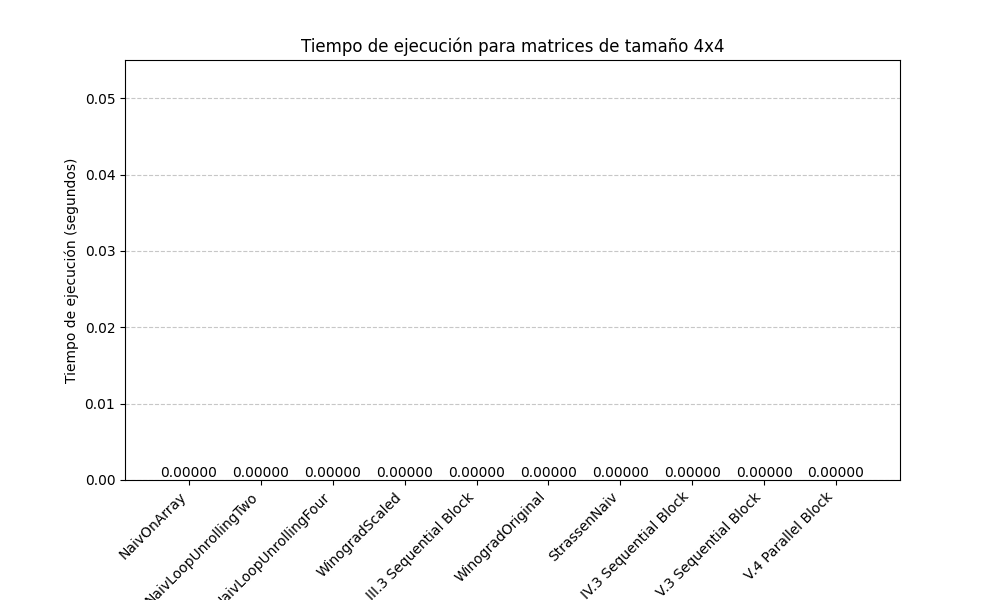
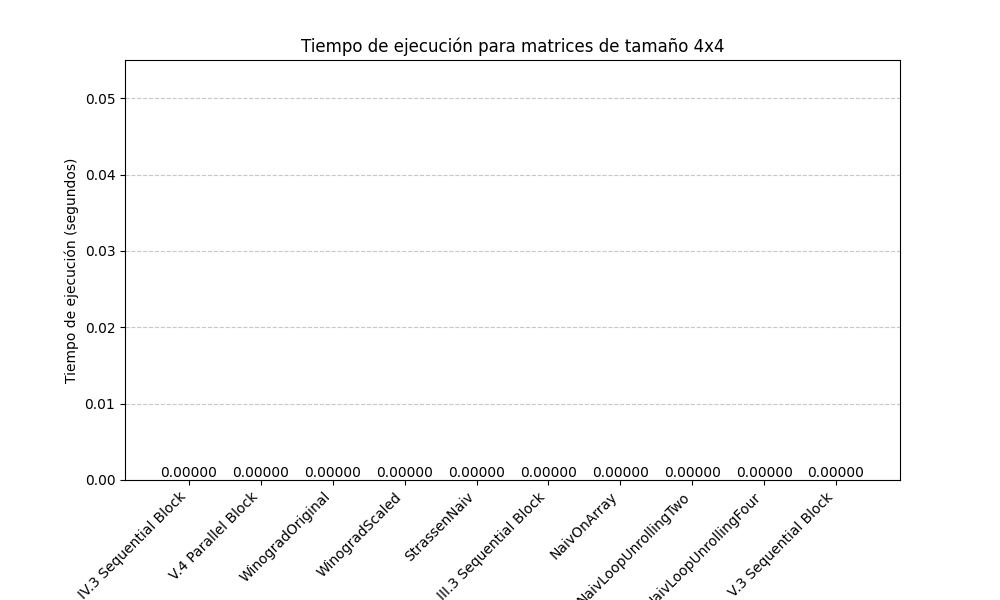
Cuarto commit - Modificaciones en las gráficas v3.0

diff --git a/ProyectoFinal/main.py b/ProyectoFinal/main.py
@@ -13,8 +13,37 @@ def leer_tiempos_csv(archivo_csv):
             tiempos[algoritmo] = tiempo  # Guardar el tiempo del algoritmo
     return tiempos
 
+# Función para crear y guardar gráficos de barras
+def crear_diagrama_barras(tiempos, archivo_salida, tamano_matriz):
+    plt.figure(figsize=(10, 6))
+    algoritmos = list(tiempos.keys())
+    tiempos_valores = list(tiempos.values())
+
+    # Generar el diagrama de barras
+    barras = plt.bar(algoritmos, tiempos_valores, color='darkorchid')
+
+    # Agregar etiquetas encima de las barras con 5 decimales
+    for barra, tiempo in zip(barras, tiempos_valores):
+        plt.text(barra.get_x() + barra.get_width() / 2,  # Posición en x
+                 barra.get_height() + (barra.get_height() * 0.01),  # Posición en y con un pequeño margen
+                 f'{tiempo:.5f}',  # Texto con 5 decimales
+                 ha='center', va='bottom', fontsize=10)
+
+    # Configuración de los ejes y la gráfica
+    plt.xticks(rotation=45, ha='right')  # Rotar etiquetas para mejor visibilidad
+    plt.xlabel('Algoritmos')
+    plt.ylabel('Tiempo de ejecución (segundos)')
+    plt.ylim(bottom=0)
+    plt.title(f'Tiempo de ejecución para matrices de tamaño {tamano_matriz}x{tamano_matriz}')
+
+    # Ajustar los márgenes para acomodar las etiquetas
+    plt.subplots_adjust(bottom=0.2, top=0.9)  # Espacio adicional inferior y superior
+    plt.grid(axis='y', linestyle='--', alpha=0.7)
+    plt.savefig(archivo_salida)
+    plt.close()
+
 # Función para crear y guardar gráficos lineales comparativos
-def crear_diagrama_lineal_comparativo(tiempos_python, tiempos_go, archivo_salida):
+def crear_diagrama_lineal_comparativo(tiempos_python, tiempos_go, tamano_matriz, archivo_salida):
     plt.figure(figsize=(10, 6))
 
     algoritmos = list(tiempos_python.keys())
@@ -28,8 +57,8 @@ def crear_diagrama_lineal_comparativo(tiempos_python, tiempos_go, archivo_salida
     # Configurar etiquetas
     plt.xticks(rotation=45, ha='right')  # Rotar etiquetas para mejor visibilidad
     plt.xlabel('Algoritmos')
-    plt.ylabel('Tiempo promedio de ejecución (segundos)')
-    plt.title('Comparación de tiempos promedio entre Python y Go')
+    plt.ylabel('Tiempo de ejecución (segundos)')
+    plt.title(f'Comparación de tiempos para matrices de tamaño {tamano_matriz}x{tamano_matriz}')
     plt.legend()
     plt.grid(axis='y', linestyle='--', alpha=0.7)
 
@@ -38,45 +67,57 @@ def crear_diagrama_lineal_comparativo(tiempos_python, tiempos_go, archivo_salida
     plt.savefig(archivo_salida)
     plt.close()
 
-# Función para crear y guardar el archivo CSV comparativo
-def crear_csv_comparativo_promedio(tiempos_python, tiempos_go, archivo_salida):
+# Función para crear y guardar los archivos CSV comparativos
+def crear_csv_comparativo(tiempos_python, tiempos_go, archivo_salida, tamano_matriz):
     with open(archivo_salida, mode='w', newline='') as file:
         writer = csv.writer(file)
         writer.writerow(["Algoritmo", "Python", "Go"])  # Cabecera
 
-        # Escribir los tiempos promedio para cada algoritmo
+        # Escribir los tiempos de ejecución para cada algoritmo
         for algoritmo in tiempos_python:
             python_tiempo = tiempos_python.get(algoritmo, 'N/A')
             go_tiempo = tiempos_go.get(algoritmo, 'N/A')
             writer.writerow([algoritmo, python_tiempo, go_tiempo])
 
 # Directorios de entrada y salida
-directorio_python = 'tiempos/tiempos_python'
-directorio_go = 'tiempos/tiempos_go'
-directorio_comparativos = 'tiempos/tiempos_comparativos'
-directorio_graficos_comparativos = 'graficos/graficos_comparativos'
+directorio_python = 'tiempos/tiempos_python'  # Ruta de los CSV generados por el proyecto Python
+directorio_go = 'tiempos/tiempos_go'  # Ruta de los CSV generados por el proyecto Go
+directorio_graficos_python = 'graficos/graficos_python'  # Carpeta donde se guardarán los gráficos de Python
+directorio_graficos_go = 'graficos/graficos_go'  # Carpeta donde se guardarán los gráficos de Go
+directorio_graficos_comparativos = 'graficos/graficos_comparativos'  # Carpeta de gráficos comparativos
+directorio_comparativos = 'tiempos/tiempos_comparativos'  # Carpeta donde se guardarán los CSV comparativos
 
-# Crear carpetas si no existen
-os.makedirs(directorio_comparativos, exist_ok=True)
+# Tamaños de matrices
+tamano_matriz = [2 ** i for i in range(1, 9)]  # Tamaños: 2^1, 2^2, ..., 2^8
+
+# Crear carpetas de gráficos y comparativos si no existen
+os.makedirs(directorio_graficos_python, exist_ok=True)
+os.makedirs(directorio_graficos_go, exist_ok=True)
 os.makedirs(directorio_graficos_comparativos, exist_ok=True)
+os.makedirs(directorio_comparativos, exist_ok=True)
 
-# Archivos CSV de promedio
-archivo_promedio_python = os.path.join(directorio_python, "tiempos_ejecucion_promedio.csv")
-archivo_promedio_go = os.path.join(directorio_go, "tiempo_promedio.csv")
+# Procesar los archivos CSV para generar gráficos y CSV comparativos
+for n in tamano_matriz:
+    archivo_csv_python = os.path.join(directorio_python, f"tiempos_ejecucion_{n}.csv")
+    archivo_csv_go = os.path.join(directorio_go, f"tiempos_{n}.csv")
 
-# Procesar y generar comparativo
-if os.path.exists(archivo_promedio_python) and os.path.exists(archivo_promedio_go):
-    tiempos_python = leer_tiempos_csv(archivo_promedio_python)
-    tiempos_go = leer_tiempos_csv(archivo_promedio_go)
+    if os.path.exists(archivo_csv_python) and os.path.exists(archivo_csv_go):
+        tiempos_python = leer_tiempos_csv(archivo_csv_python)
+        tiempos_go = leer_tiempos_csv(archivo_csv_go)
 
-    # Crear archivo CSV comparativo de tiempos promedio
-    archivo_comparativo_promedio = os.path.join(directorio_comparativos, "tiempo_comparativo_promedio.csv")
-    crear_csv_comparativo_promedio(tiempos_python, tiempos_go, archivo_comparativo_promedio)
+        # Generar gráficos para Python y Go
+        archivo_salida_python = os.path.join(directorio_graficos_python, f"grafico_python_{n}.png")
+        crear_diagrama_barras(tiempos_python, archivo_salida_python, n)
 
-    # Crear gráfico lineal comparativo de tiempos promedio
-    archivo_grafico_promedio = os.path.join(directorio_graficos_comparativos, "grafico_comparativo_promedio.png")
-    crear_diagrama_lineal_comparativo(tiempos_python, tiempos_go, archivo_grafico_promedio)
+        archivo_salida_go = os.path.join(directorio_graficos_go, f"grafico_go_{n}.png")
+        crear_diagrama_barras(tiempos_go, archivo_salida_go, n)
 
-    print("Archivo CSV y gráfico comparativo de tiempos promedio generados exitosamente.")
-else:
-    print("No se encontraron los archivos de tiempo promedio para Python o Go.")
+        # Crear archivo CSV comparativo
+        archivo_comparativo = os.path.join(directorio_comparativos, f"tiempo_comparativo_{n}.csv")
+        crear_csv_comparativo(tiempos_python, tiempos_go, archivo_comparativo, n)
+
+        # Generar gráfico comparativo lineal
+        archivo_grafico_comparativo = os.path.join(directorio_graficos_comparativos, f"grafico_comparativo_{n}.png")
+        crear_diagrama_lineal_comparativo(tiempos_python, tiempos_go, n, archivo_grafico_comparativo)
+
+print("Gráficos de barras y lineales comparativos generados exitosamente.")
